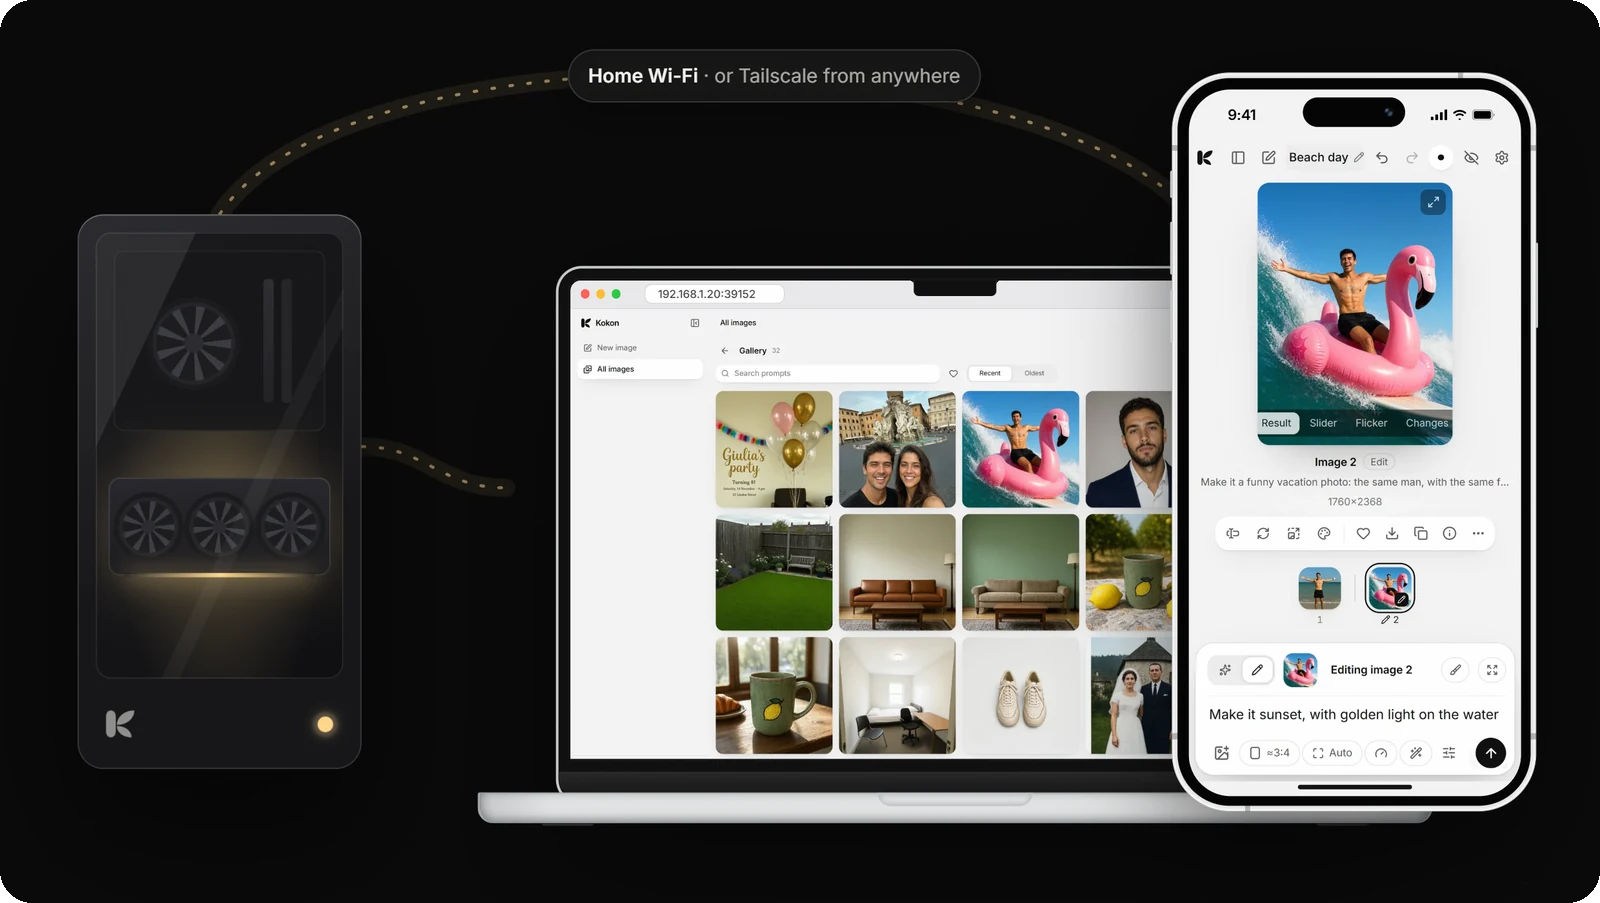
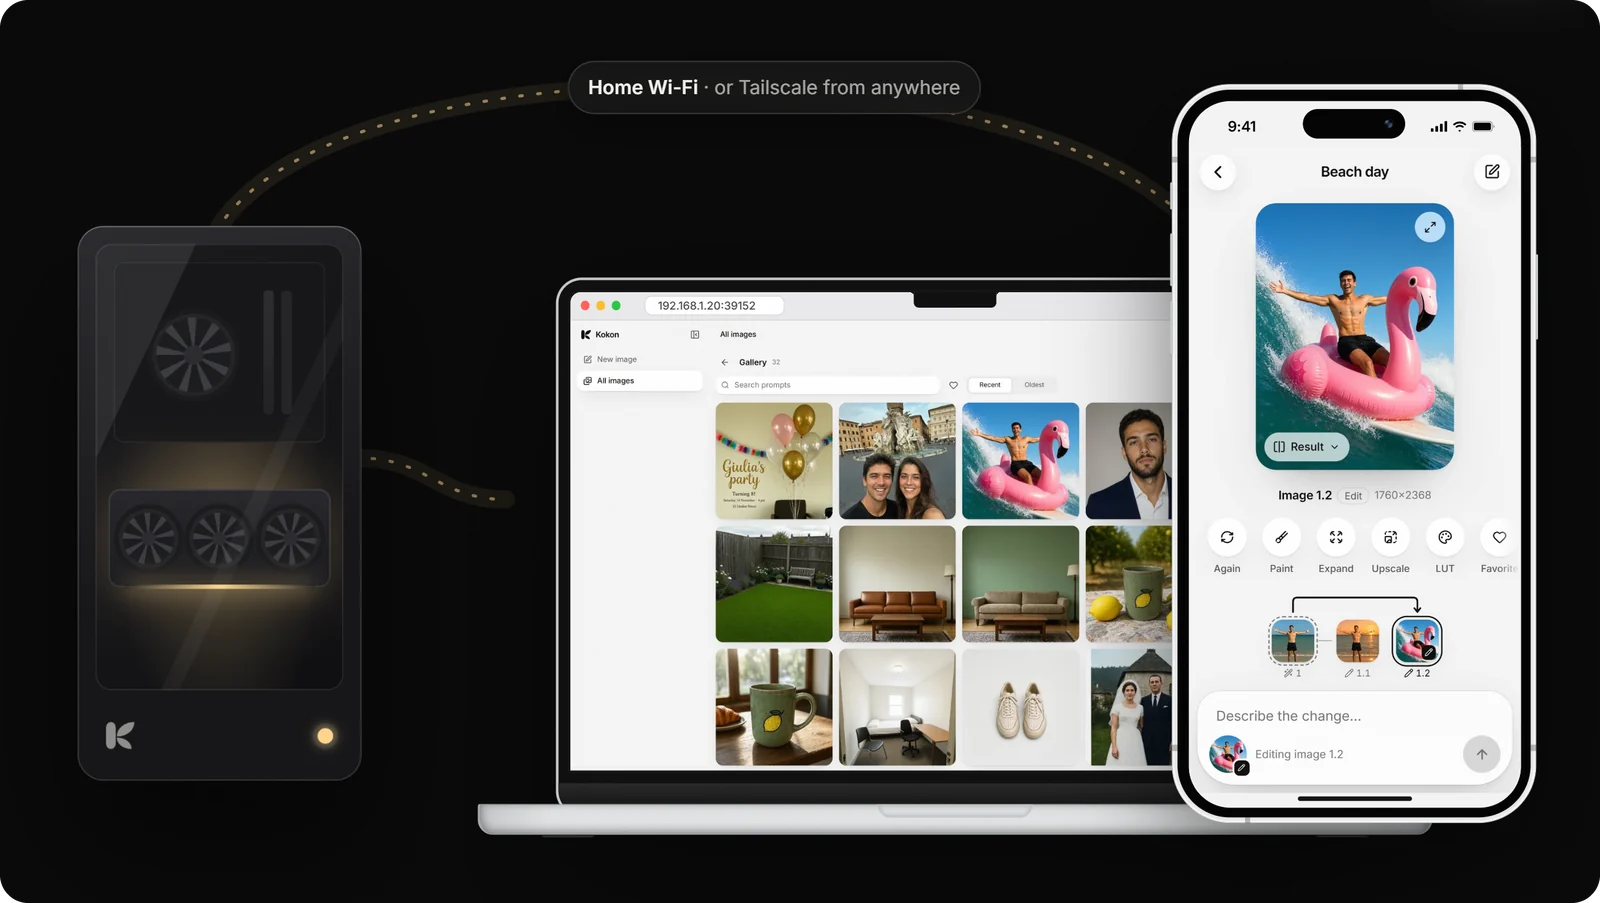
Site and README: the phone screens in the phone layout
The iPhone in the Other devices scene (home page, README image) and the two
iPhones of the /self-hosted/ guide show the phone layout: a project with its
versions, and the projects as the phone opens. The guide's notes on adding
photos and on saving (an iPhone: press and hold, Save to Photos) follow it too.

diff --git a/site/self-hosted/index.html b/site/self-hosted/index.html
@@ -88,15 +88,15 @@
   <div class="wrap narrow">
     <nav class="crumbs" aria-label="Breadcrumb"><a href="../">Kokon</a> <span>/</span> Guide</nav>
     <h1>Use Kokon from your phone, or run it as a server</h1>
-    <p class="lede-left">Your computer with the graphics card makes the images. Your phone, tablet or laptop uses Kokon in a browser, on the same network or, through a VPN, from anywhere. Kokon 0.11 or newer. Updated October 23, 2026.</p>
+    <p class="lede-left">Your computer with the graphics card makes the images. Your phone, tablet or laptop uses Kokon in a browser, on the same network or, through a VPN, from anywhere. Kokon 0.11 or newer. Updated October 24, 2026.</p>
 
     <figure>
       <div class="scene-box phones-box" id="phones-box" style="margin-top:0">
-        <div class="scene phones" aria-label="Kokon on two iPhones: the gallery, and a project with an edit">
+        <div class="scene phones" aria-label="Kokon on two iPhones: the projects, and a project with an edit">
           <div class="device device-iphone-14-pro dv-phone" style="left:0;top:0;transform:scale(0.66);transform-origin:top left">
             <div class="device-frame"><div class="device-screen">
               <div class="status"><span>9:41</span><span class="icons"><svg viewBox="0 0 18 12"><use href="#sb-signal"/></svg><svg viewBox="0 0 16 12"><use href="#sb-wifi"/></svg><svg viewBox="0 0 27 13"><use href="#sb-battery"/></svg></span></div>
-              <img src="../assets/img/remote-phone-gallery.webp" width="786" height="1530" alt="Kokon's gallery on an iPhone, two columns of images made on the home computer" loading="eager">
+              <img src="../assets/img/remote-phone-library.webp" width="786" height="1530" alt="Kokon on an iPhone: the projects made on the home computer, as large cards with their pictures, and a New image button" loading="eager">
             </div></div>
             <div class="device-stripe"></div><div class="device-header"></div><div class="device-sensors"></div><div class="device-btns"></div><div class="device-power"></div><div class="device-home"></div>
           </div>
@@ -113,7 +113,7 @@
     </figure>
 
     <h2 id="how-it-works">How it works</h2>
-    <p>Kokon runs a small service on the computer with the graphics card. In 0.11 that service can also serve Kokon's interface to other devices: open its address in a browser, sign in with a password, and you get the same app as on the desktop. Photos you pick on the phone are uploaded to the computer, the computer makes the image, and the result lands in <strong>its</strong> gallery. You can download any result to the device you are holding.</p>
+    <p>Kokon runs a small service on the computer with the graphics card. In 0.11 that service can also serve Kokon's interface to other devices: open its address in a browser, sign in with a password, and you get Kokon, with a layout of its own on a phone: your projects first, a swipe between versions, a screen of its own for writing the prompt. Photos you pick on the phone are uploaded to the computer, the computer makes the image, and the result lands in <strong>its</strong> gallery. You can download any result to the device you are holding.</p>
     <p>There is no cloud and no Kokon account. The phone talks to your computer directly, over your own network.</p>
 
     <h2 id="on-your-home-network">On your home network</h2>
@@ -164,8 +164,8 @@ docker logs -f kokon                          # what the service is doing</code>
 
     <h2 id="in-a-browser">What is different in a browser</h2>
     <ul>
-      <li><strong>Adding photos:</strong> the + button, dropping files on the page, or pasting.</li>
-      <li><strong>Saving:</strong> the download button saves the image on the device you are using.</li>
+      <li><strong>Adding photos:</strong> Edit a photo in a new project (on a phone, from its photos or camera), the image button next to the prompt, dropping files on the page, or pasting.</li>
+      <li><strong>Saving:</strong> Save puts the image on the device you are using. On an iPhone it shows the picture: press and hold it, then tap Save to Photos.</li>
       <li><strong>On the computer only:</strong> showing files in a folder, the logs, LoRA and colour LUT files from disk, choosing model files, and updates.</li>
     </ul>
 

diff --git a/site/index.html b/site/index.html
@@ -359,7 +359,7 @@
         <p><b>Your phone</b>scan the QR code, add it to the home screen</p>
       </div>
       <div class="privacy" style="text-align:left">
-        <article class="card rv"><h3>Scan, sign in, edit</h3><p>Settings → Other devices shows a QR code. Scan it, type the password once, and add Kokon to the home screen like an app. Photos from the phone go in with the + button.</p></article>
+        <article class="card rv"><h3>Scan, sign in, edit</h3><p>Settings → Other devices shows a QR code. Scan it, type the password once, and add Kokon to the home screen like an app. On the phone, Kokon opens on your projects; Edit a photo takes one from the phone's photos or camera.</p></article>
         <article class="card rv d1"><h3>Locked until you open it</h3><p>Nothing listens on the network until you set a password, and 5 wrong tries make that device wait. Away from home, use Tailscale or another VPN, never an open port on the router.</p></article>
         <article class="card rv d2"><h3>Or run it as a server</h3><p>No screen needed: <code>kokon-service</code> on Linux, or the Docker image for NVIDIA cards. Run <code>docker compose up -d</code>, set the password, open the address.</p></article>
       </div>
